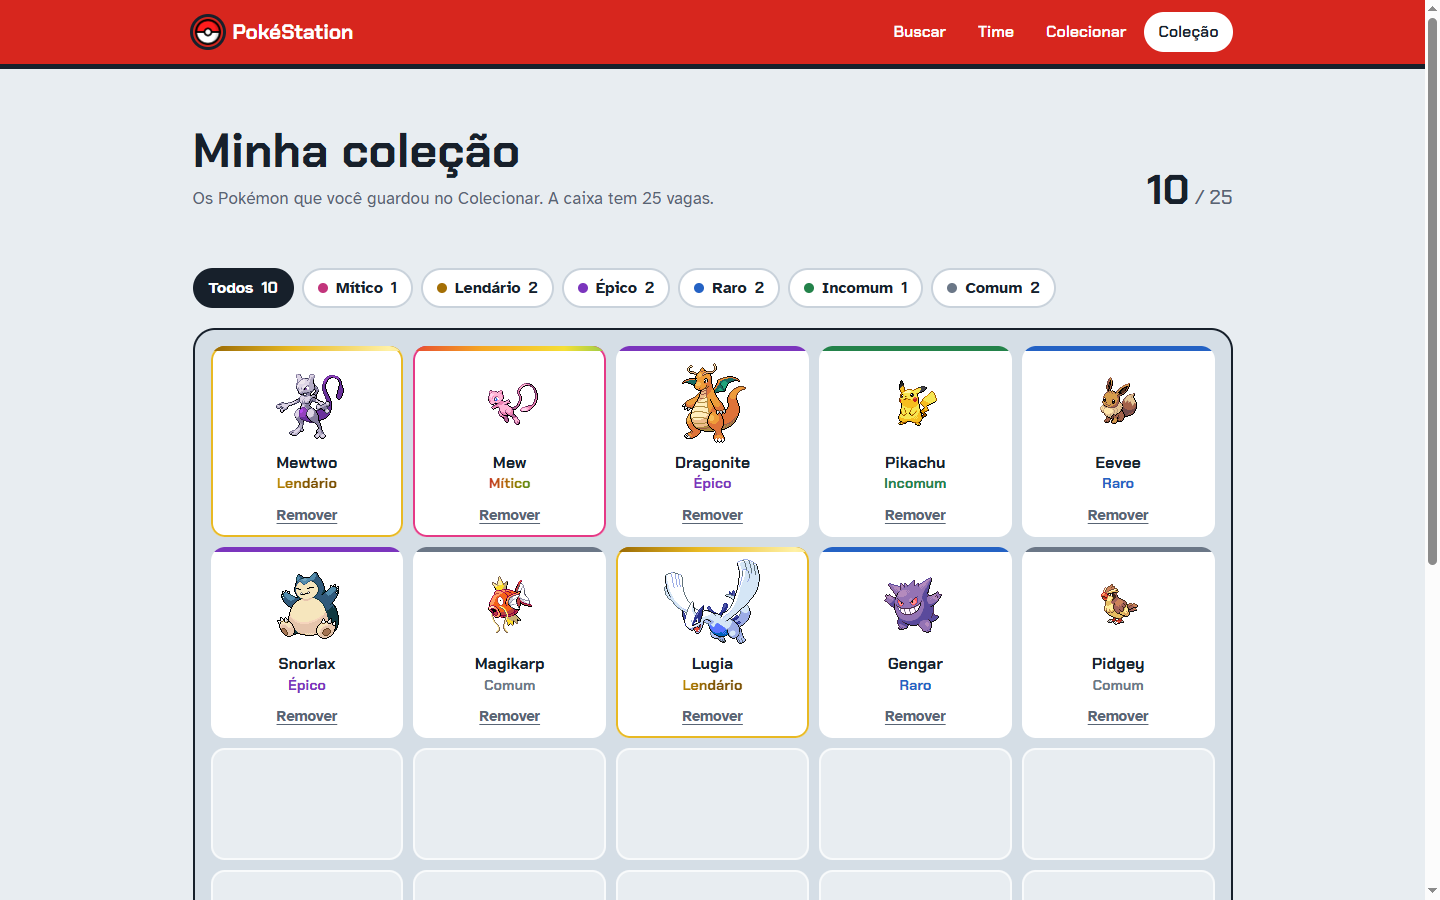
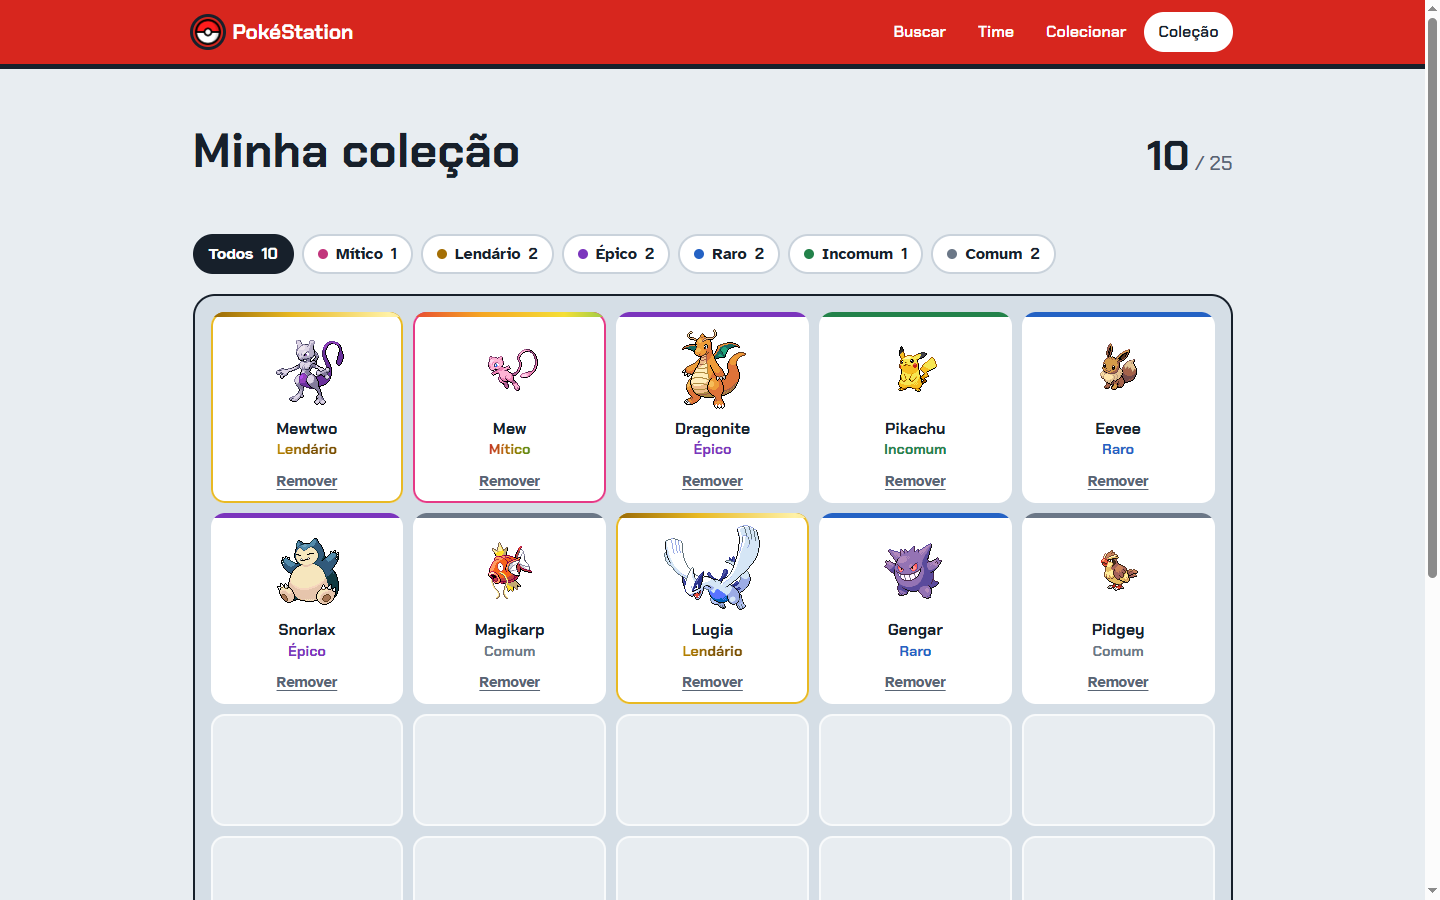
fix(ui): tira textos repetidos da home

Changed region(s): [[0.125, 0.2178, 0.8438, 0.84], [0.7812, 0.1556, 0.8438, 0.2489]]

diff --git a/src/pages/MainMenu/MainMenu.module.css b/src/pages/MainMenu/MainMenu.module.css
@@ -28,29 +28,6 @@
   font-size: 1.15rem;
 }
 
-.cta {
-  margin-top: 4px;
-  padding: 14px 22px;
-  border-radius: var(--radius-md);
-  color: #fff;
-  background: var(--red);
-  box-shadow: 0 4px 0 var(--red-strong);
-  text-decoration: none;
-  font-family: var(--font-display);
-  font-size: 1.1rem;
-  font-weight: 700;
-  transition: transform 0.12s ease, box-shadow 0.12s ease;
-}
-
-.cta:hover {
-  background: var(--red-strong);
-}
-
-.cta:active {
-  transform: translateY(3px);
-  box-shadow: 0 1px 0 var(--red-strong);
-}
-
 /* Bulbasaur em cima de uma plataforma de batalha, como nos jogos */
 .heroArt {
   position: relative;

diff --git a/src/components/PageHeader/PageHeader.tsx b/src/components/PageHeader/PageHeader.tsx
@@ -3,7 +3,8 @@ import styles from "./PageHeader.module.css";
 
 interface PageHeaderProps {
   titulo: string;
-  descricao: string;
+  // Opcional: use só quando trouxer informação nova, não para repetir o card da home
+  descricao?: string;
   children?: ReactNode;
 }
 
@@ -12,7 +13,7 @@ function PageHeader({ titulo, descricao, children }: PageHeaderProps) {
     <header className={styles.header}>
       <div className={styles.copy}>
         <h1>{titulo}</h1>
-        <p>{descricao}</p>
+        {descricao && <p>{descricao}</p>}
       </div>
       {children && <div className={styles.aside}>{children}</div>}
     </header>

diff --git a/src/pages/MainMenu/MainMenu.tsx b/src/pages/MainMenu/MainMenu.tsx
@@ -65,9 +65,6 @@ function MainMenu() {
                         Quatro ferramentas com dados reais da PokéAPI. Seus
                         favoritos e sua coleção ficam salvos neste navegador.
                     </p>
-                    <Link to="/finder" className={styles.cta}>
-                        Buscar um Pokémon
-                    </Link>
                 </div>
 
                 <div className={styles.heroArt} aria-hidden="true">

diff --git a/src/pages/TeamBuilder/TeamBuilder.tsx b/src/pages/TeamBuilder/TeamBuilder.tsx
@@ -100,7 +100,6 @@ function TeamBuilder() {
         <div className={styles.teamBuilder}>
             <PageHeader
                 titulo="Montar time"
-                descricao="Busque Pokémon, adicione até 6 ao time e veja como a equipe se sai em cada atributo."
             >
                 <p className={styles.counter}>
                     <strong>{equipe.length}</strong> de {TAMANHO_EQUIPE}

diff --git a/src/pages/Collection/Collection.tsx b/src/pages/Collection/Collection.tsx
@@ -42,7 +42,6 @@ function Collection() {
         <div className={styles.collection}>
             <PageHeader
                 titulo="Minha coleção"
-                descricao={`Os Pokémon que você guardou no Colecionar. A caixa tem ${LIMITE_COLECAO} vagas.`}
             >
                 <p className={styles.counter}>
                     <strong>{colecao.length}</strong> / {LIMITE_COLECAO}

diff --git a/src/pages/Finder/Finder.tsx b/src/pages/Finder/Finder.tsx
@@ -63,10 +63,7 @@ function Finder() {
 
   return (
     <div className={styles.finder}>
-      <PageHeader
-        titulo="Buscar Pokémon"
-        descricao="Digite um nome ou número da Pokédex para ver tipo, medidas e atributos base."
-      />
+      <PageHeader titulo="Buscar Pokémon" />
 
       <SearchForm
         valor={nomePokemon}

diff --git a/README.md b/README.md
@@ -5,6 +5,10 @@
 </p>
 
 <p align="center">
+  <img src="public/images/finder-espeon.png" alt="Finder showing Espeon with its Psychic type color, measurements and base stats" width="100%">
+</p>
+
+<p align="center">
   <img src="public/images/finder.png" alt="Finder showing Charizard with type, measurements and base stats" width="49%">
   <img src="public/images/team-builder.png" alt="Team Builder with five Pokémon and the team strength panel" width="49%">
 </p>
